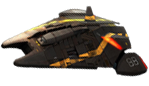
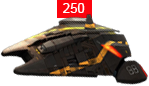
add new function recivedamage in Ship file, new function generateDamage in Game file and add new property this.damage for the function. Add to this in the first IF of checkCollisions

diff --git a/js/game.js b/js/game.js
@@ -1,3 +1,9 @@
+// function reciveDamage(health, damage) {
+//   console.log(health - damage);
+//   return health - damage;
+// }
+
+
 class Game {
     constructor(options) {
         this.ctx = options.ctx;
@@ -5,7 +11,7 @@ class Game {
         this.enemys = new EnemyShip();
         this.enemys2 = new EnemyShip2();
         this.enemys3 = new EnemyShip3();
-        this.planets = [];
+        this.damage = 0;
         this.lives = 3;
     }
 
@@ -27,18 +33,22 @@ class Game {
       });
     }
 
+    _generateDamage() {
+      this.damage = this.damage + this.enemys.damage;
+    }
+
 
     _checkCollisions(){
       if ((this.enemys.positionY + 30 >= this.ship.positionY && this.enemys.positionY + 30 <= this.ship.positionY + 30) && 
       (this.enemys.positionX + 50 >= this.ship.positionX && this.enemys.positionX + 50 <= this.ship.positionX + 50)){
-         alert('Crash');} 
-      //    else if ((this.enemys2.positionY + 30 >= this.ship.positionY && this.enemys2.positionY + 30 <= this.ship.positionY + 30) && 
-      // (this.enemys2.positionX + 50 >= this.ship.positionX && this.enemys2.positionX + 50 <= this.ship.positionX + 50)){
-      //    alert('Crash');
-      // } else if ((this.enemys3.positionY + 30 >= this.ship.positionY && this.enemys3.positionY + 30 <= this.ship.positionY + 30) && 
-      // (this.enemys3.positionX + 50 >= this.ship.positionX && this.enemys3.positionX + 50 <= this.ship.positionX + 50)){
-      //    alert('Crash');
-      // }
+        this.ship.reciveDamage(this._generateDamage())} 
+         else if ((this.enemys2.positionY + 30 >= this.ship.positionY && this.enemys2.positionY + 30 <= this.ship.positionY + 30) && 
+      (this.enemys2.positionX + 50 >= this.ship.positionX && this.enemys2.positionX + 50 <= this.ship.positionX + 50)){
+         alert('Crash');
+      } else if ((this.enemys3.positionY + 30 >= this.ship.positionY && this.enemys3.positionY + 30 <= this.ship.positionY + 30) && 
+      (this.enemys3.positionX + 50 >= this.ship.positionX && this.enemys3.positionX + 50 <= this.ship.positionX + 50)){
+         alert('Crash');
+      }
     }
 
     _clean(){
@@ -49,18 +59,20 @@ class Game {
         this._assignControlsToKeys();
         this.ship.move();
         this.enemys.move();
-        this.enemys2.move();
-        this.enemys3.move();
+        // this.enemys2.move();
+        // this.enemys3.move();
         window.requestAnimationFrame(this._update.bind(this));
     }
 
     _update(){
         this._clean();
         this.ship._drawShip(this.ctx);
+        this.ship._drawHealth(this.ctx);
         this.enemys._drawShipEnemy(this.ctx);
         this.enemys2._drawShipEnemy(this.ctx);
         this.enemys3._drawShipEnemy(this.ctx);
         this._checkCollisions();
+        this.ship.stop();
         window.requestAnimationFrame(this._update.bind(this));
     }
 

diff --git a/js/enemys.js b/js/enemys.js
@@ -1,9 +1,10 @@
 class EnemyShip {
     constructor(){
+    this.damage = 150;
     this.positionX = 910;
     this.positionY = 400;
     this.sWidth = 120;
-    this.sHeight = 41;
+    this.sHeight = 56;
     }
 
     _drawShipEnemy(ctx){
@@ -13,22 +14,25 @@ class EnemyShip {
 
     }
 
+
     moveForward() {
         this.positionX = (this.positionX - 20 + 1040) % 1040;
-        this.positionY = (this.positionY - (Math.random() * (55 - (-55)) + (-55)) + 500) % 500;
-      } 
+        this.positionY = (this.positionY   - (Math.random() * (55 - (-55)) + (-55)) + 500) % 500;
+      }
 
     move() {
         setInterval(this.moveForward.bind(this), 300);
-      }  
+      }
 }
 
 class EnemyShip2 {
   constructor(){
+  this.damage = 200;
   this.positionX = 910;
   this.positionY = 230;
   this.sWidth = 168;
   this.sHeight = 56;
+  
   }
 
   _drawShipEnemy(ctx){
@@ -41,19 +45,20 @@ class EnemyShip2 {
   moveForward() {
       this.positionX = (this.positionX - 20 + 1040) % 1040;
       this.positionY = (this.positionY - (Math.random() * (55 - (-55)) + (-55)) + 500) % 500;
-    } 
+    }
 
   move() {
       setInterval(this.moveForward.bind(this), 300);
-    }  
+    }
 }
 
 class EnemyShip3 {
   constructor(){
+  this.damage = 250;
   this.positionX = 910;
   this.positionY = 50;
   this.sWidth = 149;
-  this.sHeight = 86; 
+  this.sHeight = 86;
   }
 
   _drawShipEnemy(ctx){
@@ -66,9 +71,9 @@ class EnemyShip3 {
   moveForward() {
       this.positionX = (this.positionX - 20 + 1040) % 1040;
       this.positionY = (this.positionY - (Math.random() * (55 - (-55)) + (-55)) + 500) % 500;
-    } 
+    }
 
   move() {
       setInterval(this.moveForward.bind(this), 300);
-    }  
+    }
 }

diff --git a/js/ship.js b/js/ship.js
@@ -1,36 +1,68 @@
 class Ship {
   constructor() {
     this.positionX = 35;
-    this.positionY = 10;
+    this.positionY = 150;
     this.sWidth = 100;
     this.sHeight = 65;
+    this.health = 1500;
+    this.healthX = 65;
+    this.healthY = 145;
+    this.textY = 160;
+
   }
 
+  reciveDamage(damage) {
+    console.log(this.health - damage)
+    return this.health - damage;
+     }
+
   _drawShip(ctx) {
-    // //enlazado de imagen
     let img = document.querySelector('#shiphammer');
     ctx.drawImage(img, this.positionX, this.positionY, this.sWidth, this.sHeight);
   }
 
+  _drawHealth(ctx) {
+    ctx.fillStyle = 'green';
+    ctx.fillRect(this.healthX, this.healthY, 32, 20);
+    let health = this.health;
+    ctx.font = '10pt Arial';
+    ctx.fillStyle = 'white';
+    ctx.fillText(health, this.healthX, this.textY);
+  }
+
   fall_Down() {
     this.positionY = (this.positionY + 20 + 500) % 500;
+    this.healthY = (this.healthY + 20 + 500) % 500;
+    this.textY = (this.textY + 20 + 500) % 500;
   }
 
   moveRight() {
     this.positionX = this.positionX + 20; 
+    this.healthX = this.healthX + 20; 
   }
 
   moveLeft() {
     this.positionX = this.positionX - 35; 
+    this.healthX = this.healthX - 35; 
   }
 
   moveUp() {
     this.positionY = this.positionY - 35;
+    this.healthY = this.healthY - 35;
+    this.textY = this.textY - 35;
+
+
   }
 
 
   move() {
     setInterval(this.fall_Down.bind(this), 200);
+  }
+
+  stop() {
+    if (this.health === 0) {
+      alert(`The game is over`)
+    }
   }
 
 }

diff --git a/css/main.css b/css/main.css
@@ -29,7 +29,7 @@
    canvas#hammerhead {
     margin-top: 20px;
     border: 2px solid black;
-    background-image: url(/img/fondo-game3.png);
+    /* background-image: url(/img/fondo-game3.png); */
     margin: 0 auto;
   }
 
